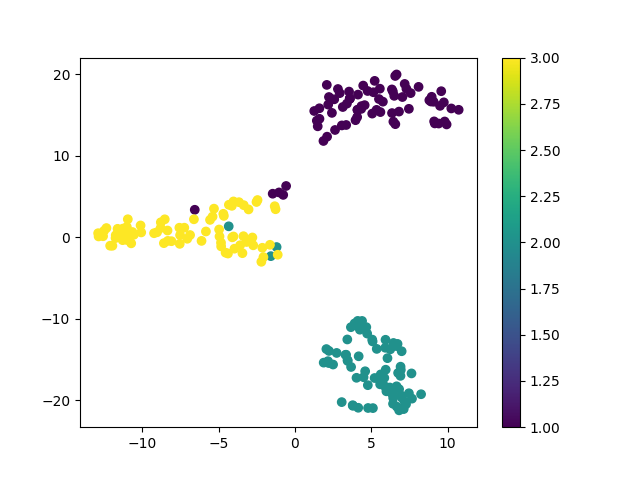
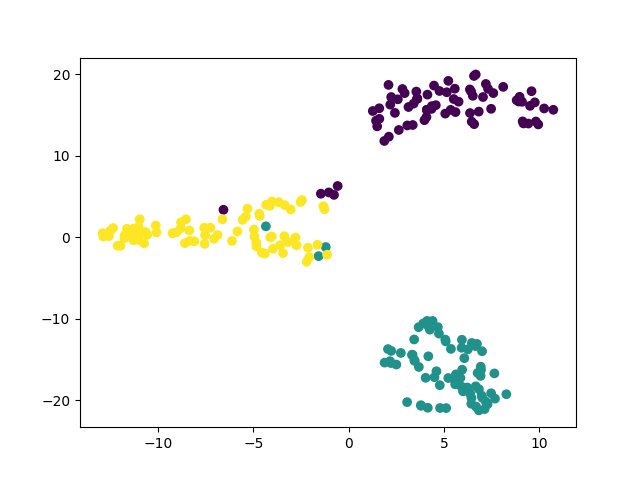
refactor

diff --git a/test.py b/test.py
@@ -1,10 +1,5 @@
 import torch
-import torch.nn as nn
-import torch.nn.functional as F
-import torch.optim as optim
 from torch.utils.data import DataLoader
-import torchvision
-import torchvision.transforms as transforms
 
 from torchsummary import summary
 
@@ -18,19 +13,11 @@ from models import *
 from parameters import args
 
 
-def test(args, model, test_loader):
-    model.eval()
-    with torch.no_grad():
-
-        for anchor, _, _, anchor_label in test_loader:
-            anc_embedding = model(anchor)
-
-
 if __name__ == '__main__':
     test_dic = make_datapath_dic('test')
     transform = ImageTransform(64)
     test_dataset = TripletDataset(test_dic, transform=transform, phase='test')
-    batch_size = 1
+    batch_size = 32
     test_dataloader = DataLoader(test_dataset, batch_size=batch_size, shuffle=False)
 
     device = 'cuda' if torch.cuda.is_available() else 'cpu'
@@ -44,18 +31,17 @@ if __name__ == '__main__':
     with torch.no_grad():
         model.eval()
         for i, (anchor, label) in enumerate(test_dataloader):
-            metric = model(anchor).squeeze()
-            predicted_metrics.append(metric.detach().cpu().numpy())
+            metric = model(anchor).detach().cpu().numpy()
+            metric = metric.reshape(metric.shape[0], metric.shape[1])
+            predicted_metrics.append(metric)
             test_labels.append(label.detach().numpy())
 
-    # for predicted_metric in predicted_metrics:
-    #     print(predicted_metric.shape)
-    # predicted_metrics = np.concatenate(predicted_metrics, 0)
+    predicted_metrics = np.concatenate(predicted_metrics, 0)
     test_labels = np.concatenate(test_labels, 0)
 
     tSNE_metrics = TSNE(n_components=2, random_state=0).fit_transform(predicted_metrics)
 
     plt.scatter(tSNE_metrics[:, 0], tSNE_metrics[:, 1], c=test_labels)
-    plt.colorbar()
+    # plt.colorbar()
     plt.savefig('tSNE.png')
     plt.show()

diff --git a/train.py b/train.py
@@ -1,10 +1,6 @@
 import torch
-import torch.nn as nn
-import torch.nn.functional as F
 import torch.optim as optim
 from torch.utils.data import DataLoader
-import torchvision
-import torchvision.transforms as transforms
 
 from torchsummary import summary
 
